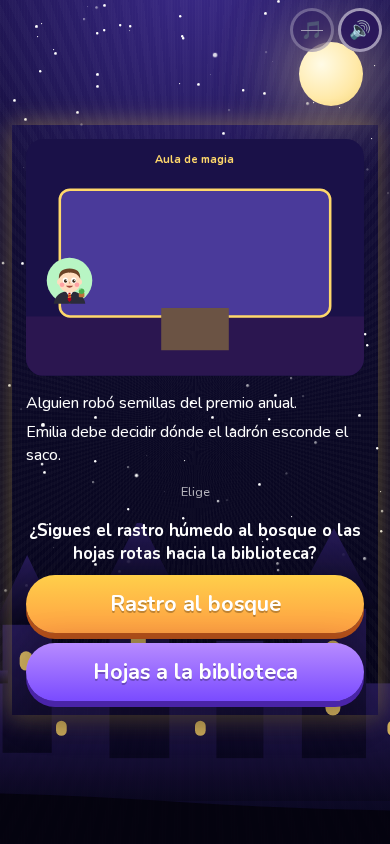
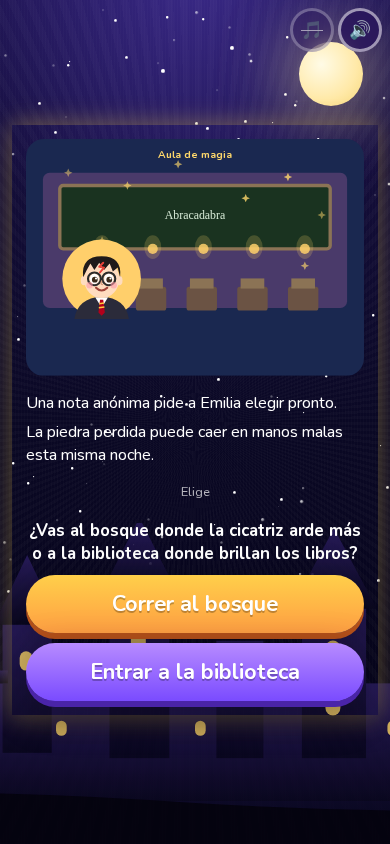
Ilustraciones SVG ricas, flujo de paneles y capturas v3
Escenas tipo libro con héroe grande, rival y destellos; sceneLooksBlank
más estricto. Narrativa sin mezclar elección/Siguiente. Recompensa opaca.
Tests v3: pasillo, bosque, Voldemort y recompensa en 390x844.

diff --git a/story-scenes.js b/story-scenes.js
@@ -1,131 +1,267 @@
 "use strict";
-/** Ilustraciones SVG para paneles de historia — fondo + héroe + rival/objeto */
+/** Ilustraciones tipo libro ilustrado — escenas llenas en SVG */
 
 const SCENE_LABELS = {
   tunnel: "Pasillo secreto",
-  corridor: "Corredor del castillo",
+  corridor: "Corredor de piedra",
   classroom: "Aula de magia",
   library: "Biblioteca",
   garden: "Jardín",
-  forest: "Bosque",
+  forest: "Bosque prohibido",
   greenhouse: "Invernadero",
   kitchen: "Cocina",
-  lake: "Lago",
+  lake: "Gran lago",
   feast: "Gran comedor",
   tower: "Torre",
   winCastle: "Hogwarts",
   bridge: "Puente",
-  chamber: "Sala oculta",
+  chamber: "Cámara secreta",
   mirror: "Espejo mágico",
-  stars: "Cielo estrellado",
-  stars_: "Noche",
-  dementor: "Sombra fría",
-  basilisk: "Serpiente",
-  patronusLight: "Luz cálida",
-  duelWin: "Duelo",
-  finalDuel: "Duelo grande",
-  voldemort: "Magia oscura",
-  darkMark: "Señal verde",
-  victory: "Victoria",
-  troll: "Troll",
+  stars: "Noche estrellada",
+  dementor: "Sombras frías",
+  basilisk: "La serpiente",
+  patronusLight: "Luz de Patronus",
+  duelWin: "Duelo mágico",
+  finalDuel: "Duelo final",
+  voldemort: "Batalla final",
+  darkMark: "Señal en el cielo",
+  victory: "¡Victoria!",
+  troll: "El troll",
 };
 
-function bgLayer(art) {
-  const sky = { tunnel: "#1a1148", forest: "#0a2a1a", garden: "#0a2a1a", greenhouse: "#0a2a1a", lake: "#0a2248", feast: "#2b1650", library: "#1a1148", kitchen: "#2b1650" }[art] || "#1a1148";
-  const ground = art === "lake" ? "#1e3a8a" : "#2b1650";
-  let decor = "";
-  switch (art) {
-    case "winCastle":
-    case "tower":
-      decor = `<path d="M40 230 L120 120 L200 80 L280 120 L360 230 L360 280 L40 280Z" fill="#3b2a8a"/><rect x="170" y="130" width="60" height="90" fill="#4a3a9a"/><polygon points="160,130 200,70 240,130" fill="#2b1650"/>`;
+function sparkles() {
+  let s = "";
+  const pts = [
+    [50, 40], [120, 55], [310, 45], [350, 90], [180, 30], [260, 70], [90, 120], [330, 150],
+  ];
+  pts.forEach(([x, y], i) => {
+    s += `<g transform="translate(${x},${y})"><path d="M0-5 L1.5-1.5 5 0 1.5 1.5 0 5 -1.5 1.5 -5 0 -1.5-1.5Z" fill="#ffd86b" opacity="${0.5 + (i % 3) * 0.15}"/></g>`;
+  });
+  return s;
+}
+
+function heroFigure(heroId) {
+  const scale = 0.95;
+  const y = 118;
+  const x = 42;
+  if (typeof window !== "undefined" && window.AV?.[heroId]) {
+    const raw = window.AV[heroId]();
+    const inner = raw.replace(/^<svg[^>]*>/, "").replace(/<\/svg>$/, "");
+    return `<g transform="translate(${x},${y}) scale(${scale})">${inner}</g>`;
+  }
+  return `<g transform="translate(${x},${y})"><circle cx="50" cy="50" r="48" fill="#ffcf6b"/><text x="50" y="58" text-anchor="middle" font-size="36">🧙</text></g>`;
+}
+
+function villainFigure(villainId, bossName) {
+  const x = 248;
+  const y = 108;
+  const label = (bossName || villainId || "Rival").slice(0, 16);
+  let body = "";
+  switch (villainId) {
+    case "goyle":
+      body = `<ellipse cx="0" cy="25" rx="48" ry="55" fill="#6b5344"/><circle cx="0" cy="-15" r="32" fill="#8b7355"/><circle cx="-12" cy="-20" r="5" fill="#1a1a1a"/><circle cx="12" cy="-20" r="5" fill="#1a1a1a"/><rect x="-22" y="50" width="20" height="35" rx="6" fill="#5a4335"/><rect x="2" y="50" width="20" height="35" rx="6" fill="#5a4335"/>`;
       break;
-    case "library":
-      decor = `<rect x="30" y="50" width="70" height="180" fill="#5a4a2a" opacity=".9"/><rect x="110" y="50" width="70" height="180" fill="#6b5a3a"/><rect x="190" y="50" width="70" height="180" fill="#5a4a2a"/><rect x="270" y="50" width="70" height="180" fill="#6b5a3a"/><text x="200" y="160" font-size="40" text-anchor="middle">📚</text>`;
+    case "crabbe":
+      body = `<ellipse cx="0" cy="25" rx="50" ry="52" fill="#7a6a55"/><circle cx="0" cy="-12" r="30" fill="#9a8a70"/><path d="M-18 -8 Q0 2 18 -8" stroke="#4a3020" stroke-width="3" fill="none"/>`;
       break;
-    case "forest":
-    case "garden":
-    case "greenhouse":
-      decor = `<polygon points="60,250 90,100 120,250" fill="#1a5a30"/><polygon points="170,250 200,70 230,250" fill="#2ecc71"/><polygon points="280,250 310,120 340,250" fill="#1a5a30"/><rect x="140" y="150" width="120" height="80" rx="8" fill="#9fe3ff" opacity=".35" stroke="#ffd86b"/>`;
+    case "draco":
+      body = `<circle cx="0" cy="-10" r="28" fill="#f0d0b0"/><rect x="-22" y="15" width="44" height="55" rx="8" fill="#1a3a2a"/><rect x="-18" y="18" width="36" height="12" fill="#c0a060"/>`;
       break;
-    case "lake":
-      decor = `<ellipse cx="200" cy="240" rx="170" ry="35" fill="#1e3a8a"/><path d="M50 200 Q200 120 350 200" fill="#2b6cb0" opacity=".5"/>`;
+    case "colagusano":
+      body = `<ellipse cx="0" cy="30" rx="55" ry="40" fill="#3a2a1a"/><circle cx="-30" cy="-5" r="14" fill="#1a1a1a"/><circle cx="-10" cy="-5" r="14" fill="#1a1a1a"/><circle cx="10" cy="-5" r="14" fill="#1a1a1a"/><circle cx="30" cy="-5" r="14" fill="#1a1a1a"/><circle cx="-20" cy="-5" r="5" fill="#ff2020"/><circle cx="0" cy="-5" r="5" fill="#ff2020"/><circle cx="20" cy="-5" r="5" fill="#ff2020"/>`;
       break;
-    case "feast":
-    case "kitchen":
-      decor = `<rect x="40" y="170" width="320" height="50" rx="8" fill="#8b5a2b"/><circle cx="100" cy="150" r="22" fill="#ffd86b"/><circle cx="200" cy="140" r="28" fill="#ff9f43"/><circle cx="300" cy="150" r="22" fill="#ffd86b"/>`;
+    case "quirrell":
+      body = `<circle cx="0" cy="-8" r="26" fill="#e8d8c8"/><rect x="-30" y="25" width="60" height="50" fill="#6b5a4a"/><ellipse cx="0" cy="-22" rx="28" ry="18" fill="#4a3020"/>`;
       break;
-    case "classroom":
-      decor = `<rect x="40" y="60" width="320" height="150" rx="12" fill="#4a3a9a" stroke="#ffd86b" stroke-width="3"/><rect x="160" y="200" width="80" height="50" fill="#6b5344"/>`;
-      break;
-    case "corridor":
-    case "tunnel":
-      decor = `<rect x="80" y="40" width="240" height="200" rx="4" fill="#2b1650" stroke="#ffd86b" opacity=".6"/><path d="M200 40 L200 260" stroke="#ffd86b" stroke-width="2" opacity=".4"/>`;
-      break;
-    case "chamber":
-      decor = `<path d="M50 250 Q200 40 350 250" fill="none" stroke="#4be37a" stroke-width="10"/><text x="200" y="150" font-size="56" text-anchor="middle">🐍</text>`;
-      break;
-    case "mirror":
-      decor = `<ellipse cx="200" cy="140" rx="95" ry="110" fill="#9fe3ff" opacity=".4" stroke="#ffd86b" stroke-width="5"/>`;
+    case "basilisco":
+      body = `<ellipse cx="0" cy="35" rx="70" ry="28" fill="#2d8a45"/><ellipse cx="-22" cy="20" rx="16" ry="14" fill="#ffcf6b" stroke="#222" stroke-width="2"/><ellipse cx="22" cy="20" rx="16" ry="14" fill="#ffcf6b" stroke="#222" stroke-width="2"/><path d="M-70 35 Q-90 10 -60 -10" stroke="#2d8a45" stroke-width="12" fill="none" stroke-linecap="round"/>`;
       break;
     case "dementor":
-    case "darkMark":
+      body = `<ellipse cx="0" cy="-5" rx="32" ry="40" fill="#1a1a2a"/><path d="M-40 30 Q0 -5 40 30 L50 75 L-50 75Z" fill="#0a0a18"/><circle cx="-10" cy="-8" r="4" fill="#bbb"/><circle cx="10" cy="-8" r="4" fill="#bbb"/>`;
+      break;
     case "voldemort":
-      decor = `<circle cx="200" cy="100" r="35" fill="#7dffb0" opacity=".35"/><path d="M200 50 Q250 110 200 170 Q150 110 200 50" fill="none" stroke="#7dffb0" stroke-width="5"/>`;
+      body = `<ellipse cx="0" cy="-5" rx="30" ry="34" fill="#e8e0d0"/><ellipse cx="-12" cy="-10" rx="5" ry="9" fill="#ff3030"/><ellipse cx="12" cy="-10" rx="5" ry="9" fill="#ff3030"/><path d="M0 -38 L-25 -55 L25 -55Z" fill="#111"/><rect x="-25" y="25" width="50" height="55" fill="#111" rx="6"/><circle cx="0" cy="12" r="18" fill="#7dffb0" opacity=".35"/>`;
       break;
-    case "basilisk":
-      decor = `<ellipse cx="200" cy="160" rx="130" ry="45" fill="#1a7a3f"/><circle cx="160" cy="140" r="14" fill="#ffcf6b"/><circle cx="240" cy="140" r="14" fill="#ffcf6b"/>`;
-      break;
-    case "patronusLight":
+    default:
+      body = `<circle cx="0" cy="10" r="40" fill="#4a2a6a" stroke="#ffd86b" stroke-width="3"/><text x="0" y="18" text-anchor="middle" font-size="28" fill="#fff">⚡</text>`;
+  }
+  return `<g transform="translate(${x},${y})">${body}<text x="0" y="95" text-anchor="middle" fill="#ffd86b" font-size="11" font-weight="700">${label}</text></g>`;
+}
+
+function propObject(villainId, art) {
+  if (art === "tunnel" || art === "corridor") {
+    return `<g transform="translate(300,175)"><circle cx="0" cy="0" r="22" fill="#9fe3ff" opacity=".8"/><circle cx="0" cy="0" r="14" fill="#ffd86b"/></g>`;
+  }
+  if (art === "garden" || art === "greenhouse" || art === "forest") {
+    return `<g transform="translate(285,160)"><circle cx="0" cy="20" r="28" fill="#4a8a3a"/><circle cx="-15" cy="5" r="18" fill="#6bc04a"/><circle cx="15" cy="5" r="18" fill="#6bc04a"/></g>`;
+  }
+  return "";
+}
+
+function sceneCorridor() {
+  return `
+    <defs><linearGradient id="wallG" x1="0" y1="0" x2="0" y2="1"><stop offset="0%" stop-color="#5a5a72"/><stop offset="100%" stop-color="#3a3a52"/></linearGradient></defs>
+    <rect width="400" height="280" fill="#1a1148"/>
+  ` + perspectiveHall() + torches() + stoneFloor();
+}
+
+function perspectiveHall() {
+  return `<path d="M0 280 L0 60 L200 20 L400 60 L400 280Z" fill="url(#wallG)"/>
+    <path d="M120 280 L200 90 L280 280Z" fill="#2b2a45" opacity=".9"/>
+    <path d="M155 280 L200 120 L245 280Z" fill="#1e1e35"/>
+    <path d="M175 280 L200 155 L225 280Z" fill="#12122a"/>
+    <ellipse cx="200" cy="55" rx="45" ry="20" fill="#ffd86b" opacity=".25"/>`;
+}
+
+function torches() {
+  return `<g fill="#ff9f43"><rect x="55" y="100" width="8" height="40" fill="#6b5344"/><ellipse cx="59" cy="88" rx="14" ry="18" fill="#ffcf6b" opacity=".9"/><ellipse cx="59" cy="88" rx="22" ry="26" fill="#ff9f43" opacity=".35"/>
+    <rect x="337" y="100" width="8" height="40" fill="#6b5344"/><ellipse cx="341" cy="88" rx="14" ry="18" fill="#ffcf6b" opacity=".9"/><ellipse cx="341" cy="88" rx="22" ry="26" fill="#ff9f43" opacity=".35"/></g>`;
+}
+
+function stoneFloor() {
+  return `<rect y="218" width="400" height="62" fill="#2b2640"/>` +
+    Array.from({ length: 8 }, (_, i) => `<rect x="${i * 52}" y="222" width="48" height="24" fill="#3a3550" stroke="#4a4560" stroke-width="1"/>`).join("");
+}
+
+function sceneClassroom() {
+  return `<rect width="400" height="280" fill="#1a2850"/>
+    <rect x="20" y="40" width="360" height="160" rx="8" fill="#4a3a6a"/>
+    <rect x="40" y="55" width="320" height="75" rx="4" fill="#1a3320" stroke="#8b7355" stroke-width="4"/>
+    <text x="200" y="95" text-anchor="middle" fill="#d4e8d4" font-size="14" font-family="serif">Abracadabra</text>
+    ${[70, 130, 190, 250, 310].map((x) => `<rect x="${x}" y="175" width="36" height="28" rx="3" fill="#6b5344"/><rect x="${x + 4}" y="165" width="28" height="12" fill="#8b7355"/>`).join("")}
+    ${[90, 150, 210, 270, 330].map((x) => `<circle cx="${x}" cy="130" r="6" fill="#ffcf6b" opacity=".85"/><ellipse cx="${x}" cy="128" rx="10" ry="14" fill="#ffd86b" opacity=".2"/>`).join("")}`;
+}
+
+function sceneLibrary() {
+  const shelves = [25, 95, 165, 235, 305];
+  return `<rect width="400" height="280" fill="#1a1148"/>
+    ${shelves.map((x, i) => `<rect x="${x}" y="35" width="62" height="190" fill="#5a4028" stroke="#8b6a44"/><g>${[0, 1, 2, 3, 4, 5].map((r) => `<rect x="${x + 6}" y="${45 + r * 28}" width="50" height="20" rx="2" fill="${["#b3001b", "#1e5a9a", "#2d8a45", "#9a5a1a", "#6a2a8a", "#c07a20"][r]}" opacity=".9"/>`).join("")}</g>`).join("")}
+    <rect x="350" y="120" width="12" height="100" fill="#6b5344"/>
+    <circle cx="368" cy="200" r="18" fill="#ffcf6b" opacity=".8"/>
+    <ellipse cx="368" cy="198" rx="28" ry="32" fill="#ffd86b" opacity=".15"/>`;
+}
+
+function sceneGreenhouse() {
+  return `<rect width="400" height="280" fill="#87ceeb" opacity=".4"/><rect width="400" height="280" fill="#0a2a1a" opacity=".55"/>
+    <path d="M20 260 L20 80 L200 35 L380 80 L380 260Z" fill="#c8e8ff" opacity=".35" stroke="#9fe3ff" stroke-width="2"/>
+    <line x1="200" y1="35" x2="200" y2="260" stroke="#8ac4e8" stroke-width="2"/>
+    ${[60, 140, 220, 300].map((x) => `<line x1="${x}" y1="90" x2="${x}" y2="255" stroke="#8ac4e8" stroke-width="1.5" opacity=".6"/>`).join("")}
+    ${[50, 120, 200, 280, 330].map((x, i) => `<ellipse cx="${x}" cy="230" rx="22" ry="14" fill="#8b5a2b"/><rect x="${x - 4}" y="200" width="8" height="35" fill="#4a8a3a"/><ellipse cx="${x}" cy="195" rx="28" ry="22" fill="#${i % 2 ? "3d9a50" : "2d7a40"}"/>`).join("")}`;
+}
+
+function sceneForest() {
+  return `<rect width="400" height="280" fill="#0a1820"/>
+    <ellipse cx="200" cy="260" rx="220" ry="40" fill="#0d2818" opacity=".8"/>
+    ${[30, 90, 150, 210, 270, 330, 370].map((x, i) => `<polygon points="${x},260 ${x + 20},${80 + (i % 3) * 20} ${x + 45},260" fill="#${i % 2 ? "1a5a30" : "145a28"}"/>`).join("")}
+    ${Array.from({ length: 12 }, (_, i) => `<circle cx="${30 + i * 32}" cy="${140 + (i % 4) * 25}" r="3" fill="#9fe3ff" opacity="${0.4 + (i % 3) * 0.2}"/>`).join("")}
+    <ellipse cx="200" cy="180" rx="160" ry="50" fill="#9fe3ff" opacity=".08"/>`;
+}
+
+function sceneLake() {
+  return `<rect width="400" height="280" fill="#0a1648"/>
+    <circle cx="320" cy="55" r="28" fill="#fff8e0"/><circle cx="320" cy="55" r="36" fill="#ffd86b" opacity=".15"/>
+    ${[40, 80, 360].map((x) => `<circle cx="${x}" cy="${30 + (x % 50)}" r="2" fill="#fff"/>`).join("")}
+    <path d="M0 120 L60 100 L200 70 L340 100 L400 130 L400 280 L0 280Z" fill="#2b1650"/>
+    <ellipse cx="200" cy="230" rx="195" ry="45" fill="#1e4a9a"/>
+    <path d="M20 220 Q80 200 120 225 T200 215 T280 228 T380 218" stroke="#5a9ae8" stroke-width="3" fill="none" opacity=".6"/>`;
+}
+
+function sceneFeast() {
+  return `<rect width="400" height="280" fill="#2b1650"/>
+    <rect x="15" y="100" width="370" height="120" fill="#1a0a30" opacity=".5"/>
+    ${[50, 120, 200, 280, 350].map((x) => `<rect x="${x - 35}" y="155" width="70" height="55" fill="#6b4028"/><line x1="${x}" y1="100" x2="${x}" y2="155" stroke="#8b6a44" stroke-width="4"/>`).join("")}
+    ${[70, 160, 240, 320].map((x) => `<circle cx="${x}" cy="125" r="7" fill="#ffcf6b"/><ellipse cx="${x}" cy="122" rx="12" ry="16" fill="#ffd86b" opacity=".25"/>`).join("")}
+  ` + bannerRow();
+}
+
+function bannerRow() {
+  return `<rect x="30" y="45" width="50" height="35" fill="#b3001b"/><rect x="100" y="45" width="50" height="35" fill="#1e3a8a"/><rect x="250" y="45" width="50" height="35" fill="#1a7a3f"/><rect x="320" y="45" width="50" height="35" fill="#ffcf6b"/>`;
+}
+
+function sceneChamber() {
+  return `<rect width="400" height="280" fill="#0a1810"/>
+    ${[80, 200, 320].map((x) => `<rect x="${x}" y="50" width="28" height="200" fill="#3a4a4a"/><ellipse cx="${x + 14}" cy="45" rx="20" ry="12" fill="#4a5a5a"/>`).join("")}
+    <ellipse cx="200" cy="230" rx="150" ry="30" fill="#1a4a2a" opacity=".7"/>
+    <circle cx="200" cy="140" r="60" fill="#4be37a" opacity=".2"/>
+    <path d="M40 250 Q200 60 360 250" stroke="#4be37a" stroke-width="8" fill="none" opacity=".6"/>`;
+}
+
+function sceneVoldemort() {
+  return `<rect width="400" height="280" fill="#0a0518"/>
+    <path d="M0 80 Q100 40 200 50 Q300 40 400 80" stroke="#4a3a7a" stroke-width="3" fill="none"/>
+    ${Array.from({ length: 8 }, (_, i) => `<line x1="${50 + i * 45}" y1="30" x2="${80 + i * 40}" y2="120" stroke="#9fe3ff" stroke-width="2" opacity=".4"/>`).join("")}
+    <ellipse cx="200" cy="200" rx="140" ry="25" fill="#7dffb0" opacity=".15"/>`;
+}
+
+function sceneTunnel() {
+  return sceneCorridor() + `<rect x="165" y="155" width="70" height="90" rx="6" fill="#12122a" stroke="#ffd86b" stroke-width="2"/>`;
+}
+
+function sceneBg(art, optsVillain) {
+  const key = art === "garden" ? "greenhouse" : art;
+  switch (key) {
+    case "corridor":
+      return sceneCorridor();
+    case "tunnel":
+      return sceneTunnel();
+    case "classroom":
+      return sceneClassroom();
+    case "library":
+      return sceneLibrary();
+    case "greenhouse":
+      return sceneGreenhouse();
+    case "forest":
+      return sceneForest();
+    case "lake":
+      return sceneLake();
+    case "feast":
+    case "kitchen":
+      return sceneFeast();
+    case "chamber":
+      return sceneChamber();
     case "victory":
-      decor = `<circle cx="200" cy="130" r="75" fill="#9fe3ff" opacity=".45"/><text x="200" y="145" font-size="64" text-anchor="middle">✨</text>`;
-      break;
-    case "bridge":
-      decor = `<path d="M30 220 Q200 90 370 220" stroke="#c4a574" stroke-width="14" fill="none"/><path d="M30 220 Q200 90 370 220" stroke="#8b7355" stroke-width="8" fill="none" opacity=".5"/>`;
-      break;
-  default:
-      decor = `<rect x="60" y="80" width="280" height="140" rx="10" fill="#3b2a8a" opacity=".5"/>`;
+      return optsVillain === "voldemort" ? sceneVoldemort() : sceneFeast();
+    case "voldemort":
+    case "finalDuel":
+    case "darkMark":
+      return sceneVoldemort();
+    case "basilisk":
+      return sceneChamber() + `<ellipse cx="300" cy="170" rx="55" ry="22" fill="#2d8a45"/>`;
+    case "dementor":
+      return sceneForest().replace('fill="#0a1820"', 'fill="#050510"');
+    case "winCastle":
+    case "tower":
+      return sceneLake();
+    default:
+      return sceneCorridor();
   }
-  return `<rect width="400" height="280" fill="${sky}"/><rect y="210" width="400" height="70" fill="${ground}"/>${decor}`;
-}
-
-function heroBadge(heroId) {
-  if (typeof window !== "undefined" && window.AV?.[heroId]) {
-    const svg = window.AV[heroId]();
-    const inner = svg.replace(/^<svg[^>]*>/, "").replace(/<\/svg>$/, "");
-    return `<g transform="translate(24,140) scale(0.55)">${inner}</g>`;
-  }
-  return `<circle cx="70" cy="200" r="36" fill="#ffd86b"/><text x="70" y="208" text-anchor="middle" font-size="28">🧙</text>`;
-}
-
-function villainBadge(villainId, bossName) {
-  const em = {
-    goyle: "👹",
-    crabbe: "😤",
-    draco: "🐍",
-    colagusano: "🕷",
-    quirrell: "🎭",
-    basilisco: "🐍",
-    dementor: "👻",
-    snape: "🖤",
-    bellatrix: "💜",
-    lucius: "🦇",
-    voldemort: "💀",
-  }[villainId] || "⚡";
-  const label = (bossName || villainId || "Rival").slice(0, 18);
-  return `<g transform="translate(290,130)"><circle cx="0" cy="0" r="42" fill="#3b1a5a" stroke="#ffd86b" stroke-width="3"/><text x="0" y="8" text-anchor="middle" font-size="32">${em}</text><text x="0" y="58" text-anchor="middle" fill="#ffd86b" font-size="11">${label}</text></g>`;
 }
 
 function renderStoryScene(art, opts = {}) {
   const { heroId, villainId, bossName } = opts;
   const cap = SCENE_LABELS[art] || SCENE_LABELS.corridor;
-  const title = `<text x="200" y="28" text-anchor="middle" fill="#ffd86b" font-size="13" font-weight="700">${cap}</text>`;
-  return `<svg viewBox="0 0 400 280" xmlns="http://www.w3.org/2000/svg" role="img" aria-label="${cap}">${bgLayer(art || "corridor")}${title}${heroId ? heroBadge(heroId) : ""}${villainId || bossName ? villainBadge(villainId, bossName) : ""}</svg>`;
+  const showVillain = villainId || bossName || ["duelWin", "finalDuel", "voldemort", "basilisk", "dementor", "troll"].includes(art);
+  const parts = [
+    `<svg viewBox="0 0 400 280" xmlns="http://www.w3.org/2000/svg" role="img" aria-label="${cap}" data-scene-rich="1">`,
+    sceneBg(art || "corridor", villainId),
+    sparkles(),
+    heroId ? heroFigure(heroId) : "",
+    showVillain ? villainFigure(villainId || "villain", bossName) : propObject(villainId, art),
+    `<text x="200" y="22" text-anchor="middle" fill="#ffd86b" font-size="12" font-weight="700">${cap}</text>`,
+    "</svg>",
+  ];
+  return parts.join("");
 }
 
 function sceneLooksBlank(html) {
-  if (!html || html.length < 200) return true;
-  if (!html.includes("<path") && !html.includes("<polygon") && !html.includes("<ellipse")) return true;
+  if (!html || html.length < 400) return true;
+  const fills = html.match(/fill="#[0-9a-fA-F]{3,8}"/g) || [];
+  const uniqueFills = new Set(fills).size;
+  const shapes = (html.match(/<(path|polygon|ellipse|rect|circle|line)\b/gi) || []).length;
+  if (shapes < 18) return true;
+  if (uniqueFills < 6) return true;
+  if (!html.includes("data-scene-rich")) return true;
   return false;
 }
 
-window.StoryScenes = { renderStoryScene, sceneLooksBlank, bgLayer };
+window.StoryScenes = { renderStoryScene, sceneLooksBlank, sceneBg };

diff --git a/theme.css b/theme.css
@@ -1921,6 +1921,10 @@ body[data-layout="phone-l"] #modeScreen h1.mode-title { display: none; }
 .story-choice-row { display: flex; flex-direction: column; gap: 10px; width: 100%; margin-top: 8px; }
 .story-choice-prompt { font-weight: 700; text-align: center; font-size: 1.05rem; }
 .story-choice-row .btn { width: 100%; }
+#storyChoiceRow[hidden],
+#storyPanelNext[hidden] { display: none !important; }
+.story-reward.show .story-reward-card { animation: none !important; opacity: 1 !important; }
+.story-reward.show { background: rgba(10, 5, 40, 0.72); }
 .story-hero-card.story-soon { opacity: 0.55; cursor: not-allowed; }
 .story-soon-tag {
   display: block;

diff --git a/story-mode.js b/story-mode.js
@@ -401,6 +401,7 @@ function showStoryPanels(panels, done) {
 }
 
 function renderStoryPanel() {
+  hideChoiceUI();
   const p = Story.panelQueue[Story.panelIdx];
   if (!p) return;
   document.getElementById("storyPanelArt").innerHTML = paintScene(p.art, {
